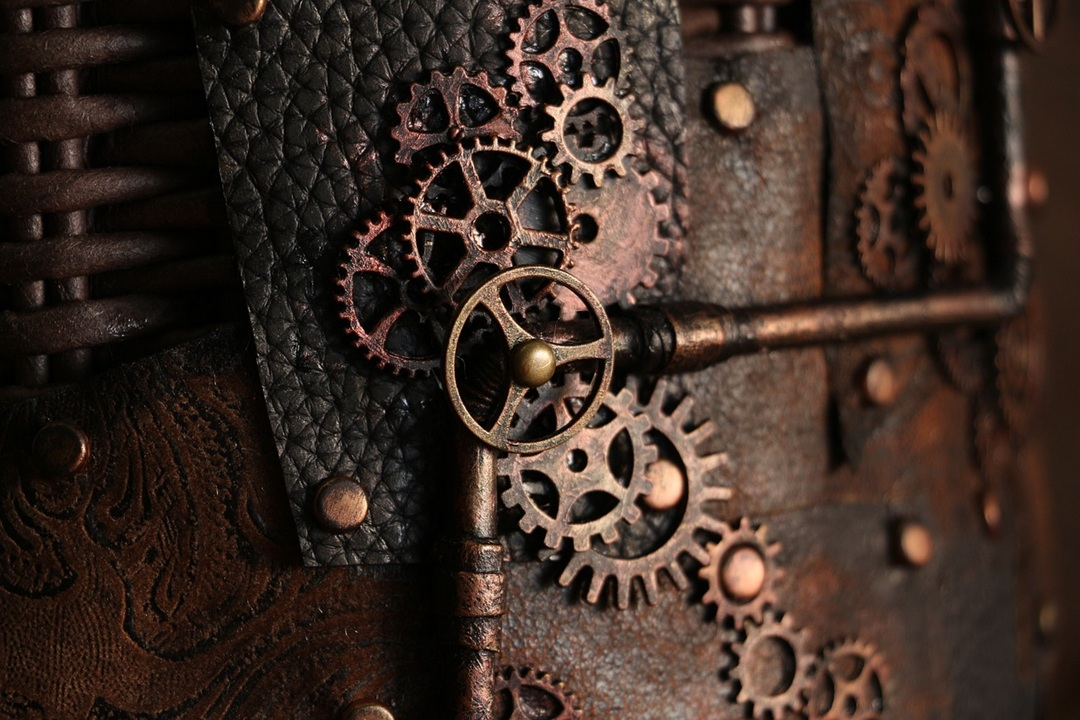
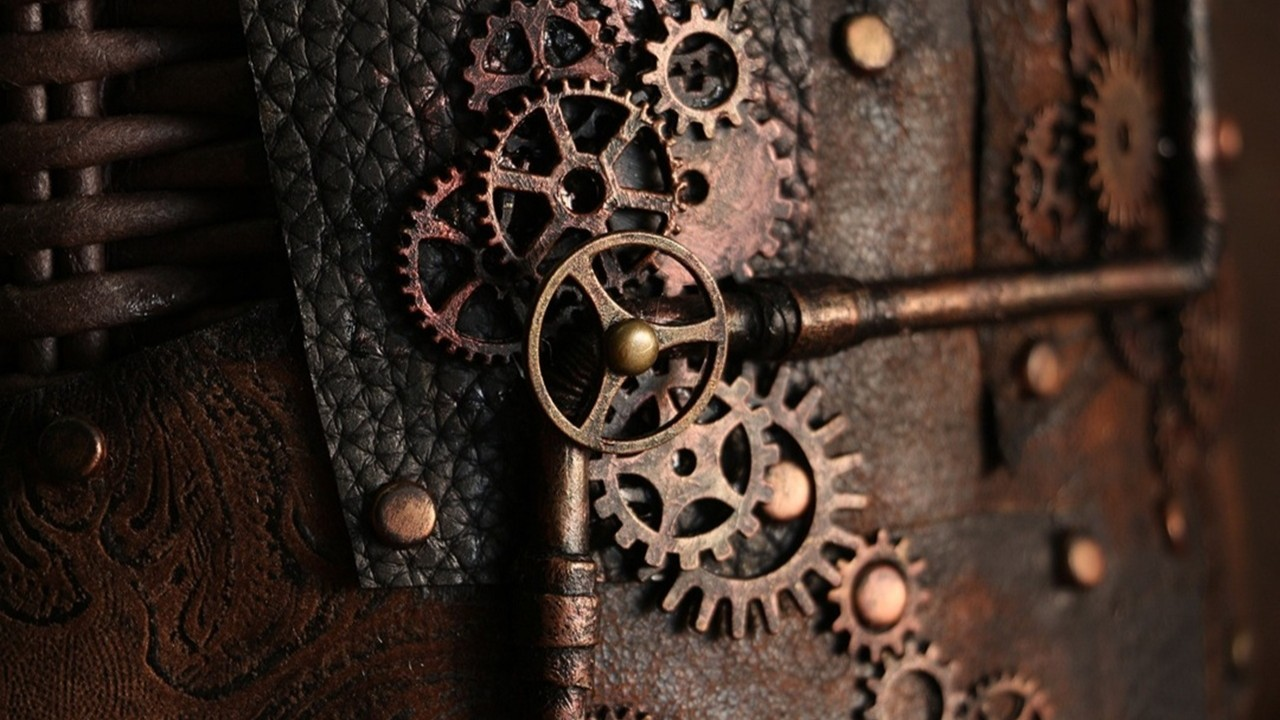
Aggiustamenti

diff --git a/index.html b/index.html
@@ -28,7 +28,7 @@
           </nav>
     </header>
     <main>
-        <section id="carousel" class="py-5" style="height: 100vh;">
+        <section id="carousel" class="d-flex justify-content-center align-items-start" style="min-height: 100vh;">
             <div id="carouselExampleCaptions" class="carousel slide">
                 <div class="carousel-indicators">
                   <button type="button" data-bs-target="#carouselExampleCaptions" data-bs-slide-to="0" class="active" aria-current="true" aria-label="Slide 1"></button>
@@ -37,22 +37,22 @@
                 </div>
                 <div class="carousel-inner">
                   <div class="carousel-item active">
-                    <img src="assets/images/slides/Slide1.jpg" class="d-block w-100" alt="...">
+                    <img src="assets/images/slides/Slide1.jpg" class="d-block viewport-75" alt="...">
                     <div class="carousel-caption d-none d-md-block">
                       <h5>First slide label</h5>
                       <p>Some representative placeholder content for the first slide.</p>
                     </div>
                   </div>
                   <div class="carousel-item">
-                    <img src="assets/images/slides/Slide2.jpg" class="d-block w-100" alt="...">
-                    <div class="carousel-caption d-none d-md-block">
+                    <img src="assets/images/slides/Slide2.jpg" class="d-block viewport-75" alt="...">
+                    <div class="carousel-caption d-none d-md-block" style="color: white">
                       <h5>Second slide label</h5>
                       <p>Some representative placeholder content for the second slide.</p>
                     </div>
                   </div>
                   <div class="carousel-item">
-                    <img src="assets/images/slides/Slide3.jpg" class="d-block w-100" alt="...">
-                    <div class="carousel-caption d-none d-md-block">
+                    <img src="assets/images/slides/Slide3.jpg" class="d-block viewport-75" alt="...">
+                    <div class="carousel-caption d-none d-md-block" style="color: white">
                       <h5>Third slide label</h5>
                       <p>Some representative placeholder content for the third slide.</p>
                     </div>
@@ -68,12 +68,12 @@
                 </button>
               </div>
         </section>
-        <section id="about" class="text-center py-5" style="height: 50vh;">
+        <section id="about" class="text-center py-5" style="height: 25vh;">
             <h2>Titolo</h2>
             <p>Lorem ipsum dolor sit amet consectetur adipisicing elit. Cumque, non!</p>
             <a href="" class="btn btn-primary disabled">Disabled</a>
         </section>
-        <section id="services" class="d-flex justify-content-center gap-5 align-items-center py-5">
+        <section id="services" class="d-flex justify-content-center gap-5 align-items-center py-5" style="height: 50vh;">
             <div class="card text-bg-secondary mb-3" style="max-width: 18rem;">
                 <div class="card-header">Header</div>
                 <div class="card-body">
@@ -96,7 +96,7 @@
                 </div>
               </div>
         </section>
-        <footer class="text-center bg-secondary py-5" style="height: 10px">
+        <footer class="text-center bg-secondary" style="height: 50px">
             <h6>Michele Giardino was here</h6>
             <p>04/01/2025</p>
         </footer>
